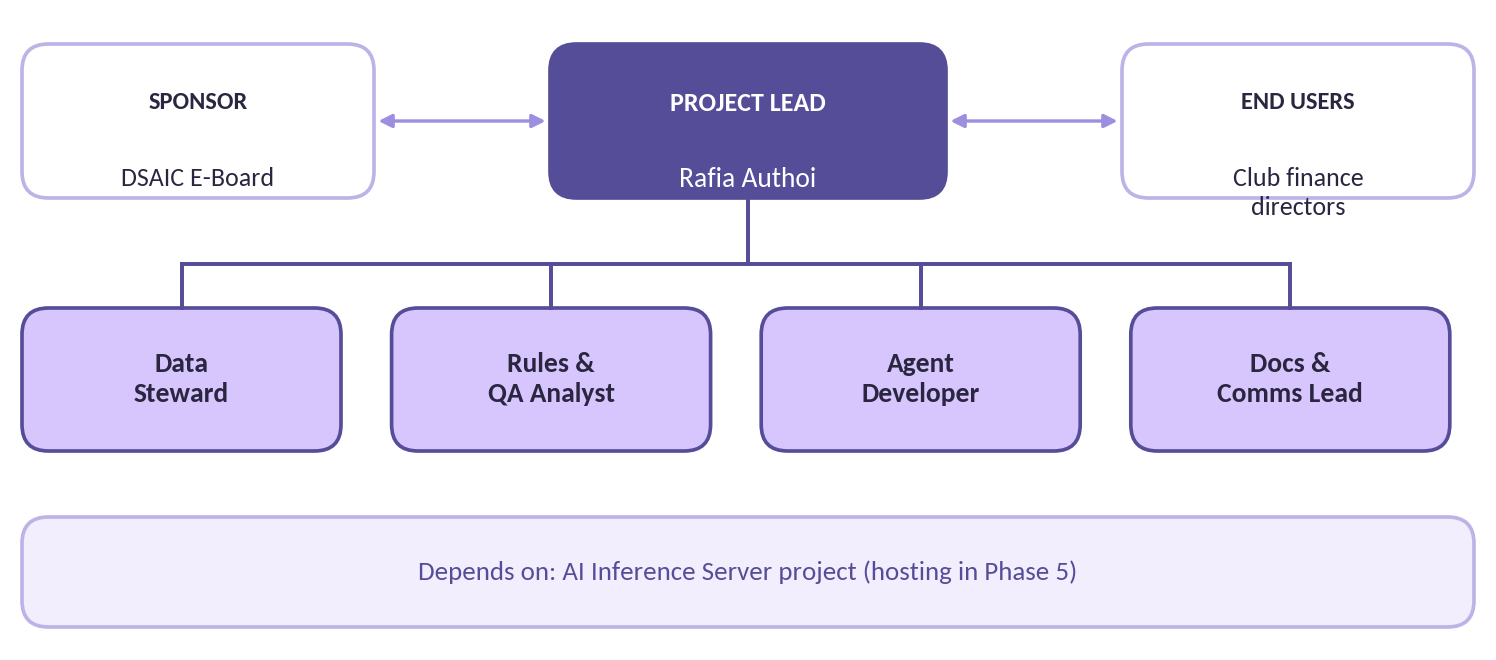
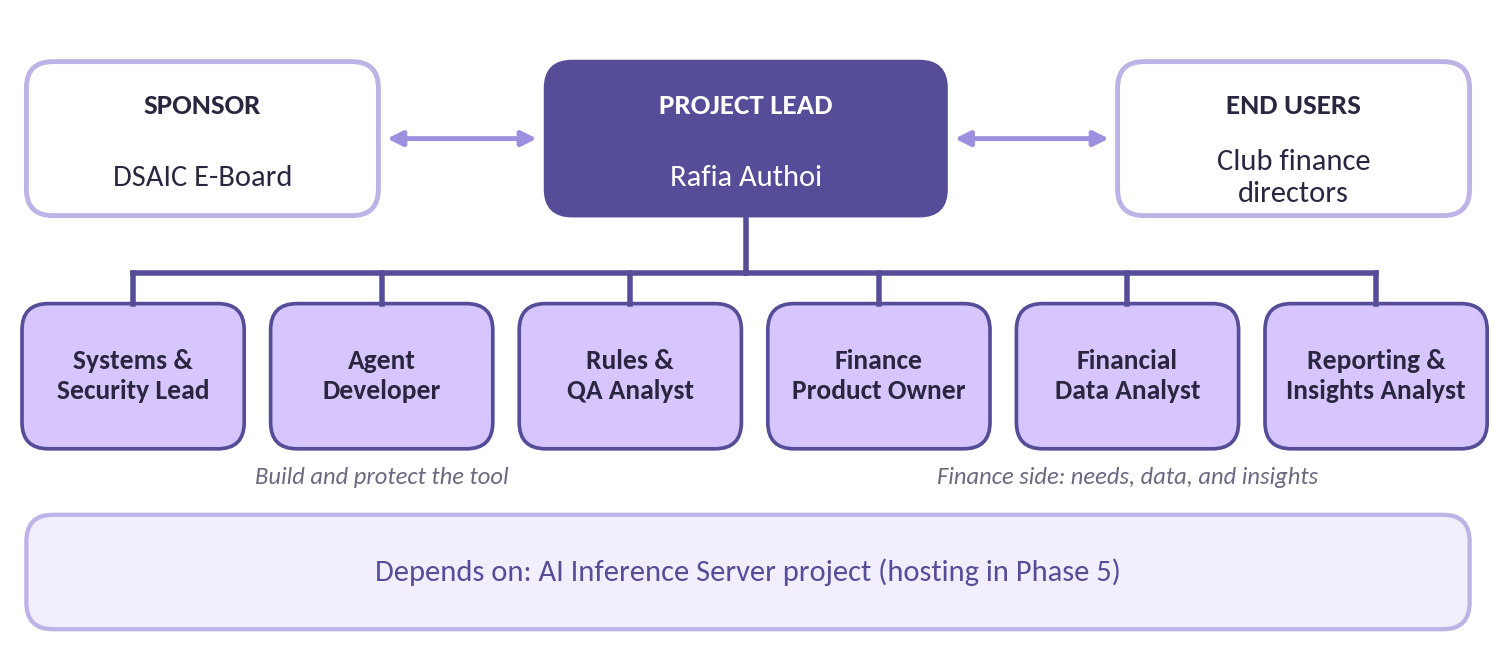
Update Charter and Refresher Guide with confirmed roles and how we work; fix team list (#29)

diff --git a/docs/project/03-project-charter.md b/docs/project/03-project-charter.md
@@ -6,12 +6,12 @@
 
 | | |
 |---|---|
-| **Project**          | DSAIC Finance Agent                                            |
-| **Project lead**     | Rafia Authoi                                                   |
-| **Sponsor**          | Data Science & AI Club (DSAIC) E-Board                         |
-| **Team size**        | 4 to 5 members, including the project lead                     |
-| **Methodology**      | Agile (sprint-based), tracked on a public GitHub project board |
-| **Version / status** | 2.1 \| Draft for team review                                   |
+| **Project**          | DSAIC Finance Agent                                                                     |
+| **Project lead**     | Rafia Authoi                                                                            |
+| **Sponsor**          | Data Science & AI Club (DSAIC) E-Board                                                  |
+| **Team size**        | 7 members, including the project lead                                                   |
+| **Methodology**      | Agile hybrid: phases with milestone gates, 2-week sprints, and a Kanban board on GitHub |
+| **Version / status** | 2.2 \| Roles confirmed October 2, 2026                                                  |
 
 ## 1. Project Overview
 
@@ -75,7 +75,7 @@ A Work Breakdown Structure (WBS) splits the project into smaller, manageable pie
 
 ## 5. Team and Roles
 
-The team is 4 to 5 people. Each person has one primary role, but everyone helps where needed. If the team has 4 members, the Docs & Comms responsibilities are shared between the project lead and the Rules & QA Analyst. Roles are assigned at the first meeting.
+The team has seven members. Each person has one primary role, but everyone helps where needed. Roles were confirmed at the October 2, 2026 team meeting. Three roles build and protect the tool, three represent the finance side (what directors need, the data, and what it shows), and the project lead connects them.
 
 ![Figure 2. Project team structure](images/charter-project-team-structure.png)
 
@@ -87,77 +87,98 @@ The team is 4 to 5 people. Each person has one primary role, but everyone helps 
 
 |   |   |
 |---|---|
-| **Good fit if you...** | Assigned to Rafia Authoi. |
-| **Responsibilities** | Sets priorities, runs meetings, and keeps the project board current<br>Unblocks teammates and makes final decisions on scope and design<br>Reviews and approves pull requests; controls access to real funding documents<br>Coordinates with the DSAIC E-Board, WSA contacts, and the AI Inference Server team |
-| **Deliverables** | Project board and sprint plans<br>Tech stack decision record (Phase 2)<br>Status updates to the E-Board |
+| **Assigned to** | Rafia Authoi |
+| **Responsibilities** | Sets priorities, runs sprint planning, and writes each week's agenda and meeting notes<br>Keeps the project board current, unblocks teammates, and makes final decisions on scope and design<br>Reviews and approves pull requests; keeps the README and guides accurate<br>Coordinates with the DSAIC E-Board, WSA contacts, and the AI Inference Server team |
+| **Deliverables** | Project board and sprint plans<br>Weekly agendas and meeting notes<br>Tech stack decision record (Phase 2)<br>README, guides, and status updates to the E-Board |
 
-#### Data Steward
-
-|   |   |
-|---|---|
-| **Good fit if you...** | You like spreadsheets, organizing things, and noticing details. No coding required. |
-| **Responsibilities** | Collects past approved WSA requests from the shared drive and tracks what's missing<br>Standardizes line items, categories, dates, and amounts using the clean-data rules<br>Anonymizes requests so samples can safely go in the public repository<br>Maps every field on the WSA request form and what goes in it |
-| **Deliverables** | Tracking sheet of all collected requests<br>Anonymized sample requests for each budget type<br>Form field map (docs/wsa-guidelines/form-fields.md) |
-
-#### Rules & QA Analyst
+#### Systems & Security Lead
 
 |   |   |
 |---|---|
-| **Good fit if you...** | You like reading rules closely and asking "how do we know that's right?" No coding required. |
-| **Responsibilities** | Writes up WSA's rules for all four budget types, with sources<br>Builds a test set: sample requests with known rule problems the checker should catch<br>Reviews the agent's drafts and records what it gets right and wrong<br>Gathers feedback from finance directors during the pilot |
-| **Deliverables** | Rules docs for all four budget types<br>Test set of requests with known issues<br>Draft quality reports each sprint<br>Pilot feedback summary |
+| **Assigned to** | Saad |
+| **Responsibilities** | Controls who can see real funding documents in the private shared drive<br>Reviews repository security: branch rules, code owners, and secret scanning<br>Gives the second-person check on every anonymized sample before it is merged<br>Plans a secure, per-organization setup for deployment to the AI server |
+| **Deliverables** | Access review of the shared drive and repository<br>Sign-off on every anonymized sample<br>Security and deployment checklist (Phase 5) |
 
 #### Agent Developer
 
 |   |   |
 |---|---|
-| **Good fit if you...** | You want to write code, or you want to learn. Some Python helps but isn't required to start. |
-| **Responsibilities** | Runs the Hermes Agent experiment and compares it with other options in Phase 2<br>Builds the drafting agent that turns a director's description into a request<br>Builds the rules checker that reads the rules file and flags problems<br>Works with the project lead to containerize and deploy to the AI server |
-| **Deliverables** | Tech stack experiment write-up<br>Working draft generator<br>Rules checker with tests<br>Deployment container and setup notes |
+| **Assigned to** | Justin |
+| **Responsibilities** | Builds the rules checker that reads the rules file and flags problems<br>Builds the drafting agent that turns a director's description into a request<br>Runs the Hermes Agent experiment with the project lead and compares options in Phase 2<br>Works with the project lead and the Systems & Security Lead to containerize and deploy |
+| **Deliverables** | Rules checker with tests<br>Tech stack experiment write-up<br>Working draft generator<br>Deployment container and setup notes |
 
-#### Docs & Comms Lead
+#### Rules & QA Analyst
 
 |   |   |
 |---|---|
-| **Good fit if you...** | You like writing, organizing, and keeping people in sync. No coding required. |
-| **Responsibilities** | Takes notes at Friday meetings and posts action items<br>Keeps the README, contributing guide, and setup instructions accurate<br>Helps keep issues and the project board tidy and up to date<br>Prepares demo materials and recruiting posts for DSAIC's LinkedIn and Instagram |
-| **Deliverables** | Meeting notes and action items<br>Up-to-date README and guides<br>Final demo and showcase materials |
+| **Assigned to** | Matt |
+| **Responsibilities** | Keeps the WSA rules docs current, with sources, when WSA changes a rule<br>Builds a test set: sample requests with known rule problems the checker should catch<br>Reviews the agent's drafts and records what it gets right and wrong<br>Gathers feedback from finance directors during the pilot |
+| **Deliverables** | Test set of requests with known issues<br>Draft quality reports each sprint<br>Pilot feedback summary |
+
+#### Finance Product Owner
+
+|   |   |
+|---|---|
+| **Assigned to** | Syed |
+| **Responsibilities** | Represents club finance chairs: what they need and what matters most<br>Sets priorities with the project lead during sprint planning<br>Supplies past approved requests and funding letters, and records WSA deadlines<br>Reviews drafts and says whether a finance chair could use them as-is |
+| **Deliverables** | Prioritized list of what finance chairs need<br>Fall 2026 WSAAC deliberation calendar<br>Draft reviews each sprint once drafts exist |
+
+#### Financial Data Analyst
+
+|   |   |
+|---|---|
+| **Assigned to** | Drew |
+| **Responsibilities** | Collects past approved WSA requests and tracks what's missing<br>Records each request and line item in the tracking sheet, including what was cut and why<br>Standardizes line items, categories, dates, and amounts<br>Anonymizes samples using the anonymization checklist and maps every field on the WSA form |
+| **Deliverables** | Tracking sheet of past requests<br>Anonymized sample requests for each budget type<br>Form field map (docs/wsa-guidelines/form-fields.md) |
+
+#### Reporting & Insights Analyst
+
+|   |   |
+|---|---|
+| **Assigned to** | Sami |
+| **Responsibilities** | Turns the tracking sheet into charts that show what WSA funds<br>Tracks approval rates, amounts by budget type, and the most common reasons items get cut<br>Works from the anonymized copy of the tracking sheet<br>Prepares charts for sprint reviews and the end-of-year showcase |
+| **Deliverables** | Funding insights dashboard<br>Charts for sprint reviews and the showcase |
 
 ### 5.2 Responsibility matrix (RACI)
 
 A RACI matrix shows who does what. For each task: R is Responsible (does the work), A is Accountable (owns the outcome and signs off), C is Consulted (gives input), and I is Informed (kept updated).
 
-| **Task**                                   | **Lead** | **Data** | **Rules/QA** | **Dev** | **Docs** |
-|--------------------------------------------|----------|----------|--------------|---------|----------|
-| **Set up shared drive for real documents** | R/A      | C        | I            | I       | I        |
-| **Collect and anonymize past requests**    | A        | R        | C            | I       | I        |
-| **Map WSA form fields**                    | A        | R        | C            | C       | I        |
-| **Document WSA rules**                     | A        | C        | R            | C       | C        |
-| **Choose tasks and tech stack**            | R/A      | C        | C            | R       | I        |
-| **Hermes Agent experiment**                | A        | I        | C            | R       | I        |
-| **Build draft generator**                  | A        | C        | C            | R       | I        |
-| **Build rules checker**                    | A        | I        | C            | R       | I        |
-| **Test drafts and run director pilot**     | A        | C        | R            | C       | I        |
-| **Deploy to AI server**                    | A        | I        | C            | R       | I        |
-| **README, guides, and showcase**           | A        | C        | C            | C       | R        |
+| **Task**                                   | **Lead** | **Security** | **Dev** | **Rules/QA** | **Product** | **Data** | **Insights** |
+|--------------------------------------------|----------|--------------|---------|--------------|-------------|----------|--------------|
+| **Set up shared drive for real documents** | R/A      | C            | I       | I            | I           | I        | I            |
+| **Control data access and repo security**  | A        | R            | C       | I            | I           | I        | I            |
+| **Collect and anonymize past requests**    | A        | C            | I       | C            | C           | R        | I            |
+| **Map WSA form fields**                    | A        | I            | C       | C            | C           | R        | I            |
+| **Document WSA rules**                     | A        | I            | C       | R            | C           | C        | I            |
+| **Set priorities and plan sprints**        | R/A      | C            | C       | C            | R           | C        | C            |
+| **Choose tasks and tech stack**            | R/A      | C            | R       | C            | C           | I        | I            |
+| **Hermes Agent experiment**                | A        | I            | R       | C            | I           | I        | I            |
+| **Build draft generator**                  | A        | I            | R       | C            | C           | C        | I            |
+| **Build rules checker**                    | A        | I            | R       | C            | I           | I        | I            |
+| **Test drafts and run director pilot**     | A        | I            | C       | R            | R           | C        | I            |
+| **Funding insights dashboard**             | A        | I            | I       | I            | C           | C        | R            |
+| **Deploy to AI server**                    | A        | C            | R       | C            | I           | I        | I            |
+| **README, guides, and showcase**           | R/A      | I            | C       | C            | C           | I        | C            |
 
 ## 6. Deliverables
 
 **Deadlines:** all due dates are TBD and will be set during sprint planning. Always check the project board for current deadlines.
 
-| **ID**  | **Deliverable**                 | **Owner**       | **Phase** | **Done when...**                                         | **Due** |
-|---------|---------------------------------|-----------------|-----------|----------------------------------------------------------|---------|
-| **D1**  | Team setup complete             | All             | 0         | Everyone can clone the repo and open a pull request      | TBD     |
-| **D2**  | Shared drive for real documents | Project Lead    | 1         | Private folder exists, access limited to the team        | TBD     |
-| **D3**  | Past request library            | Data Steward    | 1         | Approved requests collected and tracked by budget type   | TBD     |
-| **D4**  | Form field map                  | Data Steward    | 1         | Every WSA form field documented                          | TBD     |
-| **D5**  | WSA rules docs                  | Rules & QA      | 1         | Rules for all four budget types written up with sources  | TBD     |
-| **D6**  | Anonymized samples              | Data Steward    | 1         | At least one per budget type, checked by a second person | TBD     |
-| **D7**  | Tech stack decision             | Lead & Dev      | 2         | Options tested, choice and reasons written in the repo   | TBD     |
-| **D8**  | Event request drafts            | Agent Developer | 3         | Agent drafts event requests that pass the rules checker  | TBD     |
-| **D9**  | All budget types + pilot        | Dev & Rules/QA  | 4         | Finance directors approve drafts with minor edits        | TBD     |
-| **D10** | Deployed agent                  | Agent Developer | 5         | Runs on the AI server, data separated by organization    | TBD     |
-| **D11** | Documentation & showcase        | Docs & Comms    | 5         | A new member can set up the project from the docs alone  | TBD     |
+| **ID**  | **Deliverable**                 | **Owner**                     | **Phase** | **Done when...**                                                    | **Due** |
+|---------|---------------------------------|-------------------------------|-----------|---------------------------------------------------------------------|---------|
+| **D1**  | Team setup complete             | All                           | 0         | Everyone can clone the repo and open a pull request                 | TBD     |
+| **D2**  | Shared drive for real documents | Project Lead                  | 1         | Private folder exists, access limited to the team                   | TBD     |
+| **D3**  | Past request library            | Data Analyst                  | 1         | Approved requests collected and tracked by budget type              | TBD     |
+| **D4**  | Form field map                  | Data Analyst                  | 1         | Every WSA form field documented                                     | TBD     |
+| **D5**  | WSA rules docs                  | Rules & QA                    | 1         | Rules for all four budget types written up with sources             | TBD     |
+| **D6**  | Anonymized samples              | Data Analyst & Security       | 1         | At least one per budget type, checked by the Security Lead          | TBD     |
+| **D7**  | Tech stack decision             | Lead & Dev                    | 2         | Options tested, choice and reasons written in the repo              | TBD     |
+| **D8**  | Event request drafts            | Agent Developer               | 3         | Agent drafts event requests that pass the rules checker             | TBD     |
+| **D9**  | All budget types + pilot        | Dev, Rules/QA & Product Owner | 4         | Finance directors approve drafts with minor edits                   | TBD     |
+| **D10** | Deployed agent                  | Dev & Security                | 5         | Runs on the AI server, data separated by organization               | TBD     |
+| **D11** | Documentation & showcase        | Project Lead                  | 5         | A new member can set up the project from the docs alone             | TBD     |
+| **D12** | Security review                 | Systems & Security            | 0         | Drive access and repository settings reviewed and fixed             | TBD     |
+| **D13** | Funding insights dashboard      | Reporting & Insights          | 1-2       | Shows approval rates and common cut reasons from the tracking sheet | TBD     |
 
 ## 7. Phases and Milestones
 
@@ -175,6 +196,28 @@ The project runs in six phases. Each phase ends at a milestone gate: a clear che
 | **3. First Drafts: Event**  | Draft generator and rules checker for event budgets                              | Event drafts pass the rules checker on the test set            | TBD             |
 | **4. Full Coverage**        | Operational, conference, and collaboration budgets; pilot with finance directors | Directors approve drafts with only minor edits                 | TBD             |
 | **5. Deploy & Handoff**     | Move to the AI server, per-org setup, finish docs                                | Runs on the server; docs verified by a new member              | TBD             |
+
+### 7.1 How we work
+
+We combine three common approaches. Each one solves a different problem for a student team with changing schedules.
+
+- **Phases with milestone gates.** The six phases above set the big picture. A phase doesn't start until the one before it meets its gate, so we never pick tools before we understand the problem.
+
+- **Two-week sprints.** Inside each phase, work happens in two-week sprints that start at a Friday meeting. Short sprints keep tasks small enough to finish around exams and busy weeks. The length can change if the team finds it isn't working.
+
+- **A Kanban board.** Day to day, every task is a card on the GitHub project board that moves from Backlog to Ready to In Progress to In Review to Done. Anyone can see where things stand without asking.
+
+#### The sprint cycle
+
+- **Sprint planning (first Friday of a sprint).** The Project Lead and the Finance Product Owner decide what goes into the sprint, based on what finance chairs need most. Each person then picks their cards from the Ready column.
+
+- **Weekly check-in (every Friday).** A quick round: what you finished, what you're working on next, and anything blocking you.
+
+- **Sprint review and reflection (last Friday of a sprint).** We show what got done, then talk about what went well and what to change for the next sprint.
+
+- **Done means done.** A card only moves to Done when it meets the Definition of Done in section 8.3.
+
+Sprint 1 runs October 2 to October 15, 2026. Current sprint dates are always on the project board.
 
 ## 8. Team Expectations
 
@@ -234,8 +277,8 @@ A risk is something that could go wrong. Listing risks early means we can plan f
 
 | **ID** | **Risk**                                   | **Likelihood** | **Impact** | **Response plan**                                                                                | **Owner**       |
 |--------|--------------------------------------------|----------------|------------|--------------------------------------------------------------------------------------------------|-----------------|
-| **R1** | Past requests are incomplete or messy      | High           | High       | Track what's missing instead of guessing; start with the budget type that has the most examples  | Data Steward    |
-| **R2** | Personal data exposed or mixed across orgs | Low            | High       | Real data only in the private drive; second-person check on every sample; separate setup per org | Project Lead    |
+| **R1** | Past requests are incomplete or messy      | High           | High       | Track what's missing instead of guessing; start with the budget type that has the most examples  | Data Analyst    |
+| **R2** | Personal data exposed or mixed across orgs | Low            | High       | Real data only in the private drive; second-person check on every sample; separate setup per org | Security Lead   |
 | **R3** | A draft breaks a WSA rule unnoticed        | Medium         | High       | Rules enforced by code, not just the AI; test set with known problems; director always reviews   | Rules & QA      |
 | **R4** | Team members get busy mid-semester         | High           | Medium     | Small tasks; early heads-up rule; documented work so others can pick it up                       | Project Lead    |
 | **R5** | AI Inference Server isn't ready on time    | Medium         | Medium     | Keep the laptop version working; coordinate with the server team                                 | Project Lead    |
@@ -243,14 +286,16 @@ A risk is something that could go wrong. Listing risks early means we can plan f
 
 ## 10. Communication Plan
 
-| **What**                          | **Who**                  | **How often**              | **Where**                                                    |
-|-----------------------------------|--------------------------|----------------------------|--------------------------------------------------------------|
-| **Team meeting**                  | Whole team               | Weekly, Fridays at 6:30 PM | Student Center or online                                     |
-| **Sprint review & reflection**    | Whole team               | End of each sprint         | Friday meeting                                               |
-| **Quick questions and updates**   | Whole team               | Anytime                    | Microsoft Teams channel (email the project lead to be added) |
-| **Task discussion**               | Task owner and reviewers | As needed                  | On the GitHub issue or pull request                          |
-| **Status update to sponsor**      | Project Lead to E-Board  | TBD                        | E-Board meetings                                             |
-| **Recruiting and showcase posts** | Docs & Comms Lead        | At milestones              | DSAIC LinkedIn and Instagram                                 |
+| **What**                          | **Who**                                             | **How often**                              | **Where**                                                    |
+|-----------------------------------|-----------------------------------------------------|--------------------------------------------|--------------------------------------------------------------|
+| **Team meeting**                  | Whole team                                          | Weekly, Fridays at 6:30 PM                 | Student Center or online                                     |
+| **Sprint planning**               | Project Lead and Product Owner, with the team       | First Friday of each sprint                | Friday meeting                                               |
+| **Sprint review & reflection**    | Whole team                                          | Last Friday of each sprint                 | Friday meeting                                               |
+| **Agenda and meeting notes**      | Project Lead                                        | Every meeting (agenda before, notes after) | Microsoft Teams channel                                      |
+| **Quick questions and updates**   | Whole team                                          | Anytime                                    | Microsoft Teams channel (email the project lead to be added) |
+| **Task discussion**               | Task owner and reviewers                            | As needed                                  | On the GitHub issue or pull request                          |
+| **Status update to sponsor**      | Project Lead to E-Board                             | TBD                                        | E-Board meetings                                             |
+| **Recruiting and showcase posts** | Project Lead, with charts from Reporting & Insights | At milestones                              | DSAIC LinkedIn and Instagram                                 |
 
 ## 11. Assumptions and Constraints
 
@@ -276,14 +321,16 @@ A risk is something that could go wrong. Listing risks early means we can plan f
 
 By signing, team members confirm they've read this charter and agree to its working agreements and privacy rules.
 
-| **Name**     | **Role**                | **Signature** | **Date** |
-|--------------|-------------------------|---------------|----------|
-| Rafia Authoi | Project Lead            |               |          |
-|              | Data Steward            |               |          |
-|              | Rules & QA Analyst      |               |          |
-|              | Agent Developer         |               |          |
-|              | Docs & Comms Lead       |               |          |
-|              | Sponsor (DSAIC E-Board) |               |          |
+| **Name**     | **Role**                     | **Signature** | **Date** |
+|--------------|------------------------------|---------------|----------|
+| Rafia Authoi | Project Lead                 |               |          |
+|              | Systems & Security Lead      |               |          |
+|              | Agent Developer              |               |          |
+|              | Rules & QA Analyst           |               |          |
+|              | Finance Product Owner        |               |          |
+|              | Financial Data Analyst       |               |          |
+|              | Reporting & Insights Analyst |               |          |
+|              | Sponsor (DSAIC E-Board)      |               |          |
 
 ---
 

diff --git a/docs/project/02-refresher-guide.md b/docs/project/02-refresher-guide.md
@@ -9,7 +9,7 @@
 | **Read this if**      | You're joining the team. We assume you've never seen any of this before.            |
 | **How to use it**     | Skim it once before kickoff. Come back to it whenever a word or step is unfamiliar. |
 | **Project lead**      | Rafia Authoi                                                                        |
-| **Version**           | 2.1 \| Draft                                                                        |
+| **Version**           | 2.2 \| Roles confirmed October 2, 2026                                              |
 | **Related documents** | Document 1: Project Brief \| Document 3: Project Charter                            |
 
 ## How This Guide Is Organized
@@ -288,15 +288,17 @@ Every change, whether it's cleaned data, new code, or a documentation update, fo
 
 ### C4. Roles at a glance
 
-Each team member has a primary role. Full responsibilities and deliverables are in Document 3, the Project Charter.
+Each team member has a primary role, confirmed at the October 2, 2026 meeting. Full responsibilities and deliverables are in Document 3, the Project Charter.
 
-| **Role**               | **In one line**                                                       | **Good fit if you...**                               |
-|------------------------|-----------------------------------------------------------------------|------------------------------------------------------|
-| **Project Lead**       | Plans the work, unblocks the team, makes final calls                  | (Rafia Authoi)                                       |
-| **Data Steward**       | Collects and anonymizes past approved requests                        | Like spreadsheets, organizing, and details           |
-| **Rules & QA Analyst** | Documents WSA rules and checks whether the agent's drafts follow them | Like reading rules closely and asking "are we sure?" |
-| **Agent Developer**    | Builds the drafting agent and the rules checker                       | Want to code, or want to learn                       |
-| **Docs & Comms Lead**  | Keeps guides, meeting notes, and the project board up to date         | Like writing, organizing, and keeping people in sync |
+| **Role**                         | **In one line**                                                 | **Assigned to** |
+|----------------------------------|-----------------------------------------------------------------|-----------------|
+| **Project Lead**                 | Plans the work, runs sprint planning, makes final calls         | Rafia           |
+| **Systems & Security Lead**      | Keeps real data private and the repository secure               | Saad            |
+| **Agent Developer**              | Builds the rules checker and the drafting agent                 | Justin          |
+| **Rules & QA Analyst**           | Tests whether the agent catches what WSA would reject           | Matt            |
+| **Finance Product Owner**        | Speaks for finance chairs: what they need and what matters most | Syed            |
+| **Financial Data Analyst**       | Organizes past approved requests in the tracking sheet          | Drew            |
+| **Reporting & Insights Analyst** | Turns the tracking sheet into charts of what WSA funds          | Sami            |
 
 ### C5. Meetings and communication
 

diff --git a/docs/team.md b/docs/team.md
@@ -1,7 +1,5 @@
-@'
 # Team
 
 | Name | GitHub | Role |
 |---|---|---|
 | Rafia Authoi | [@rafiaauthoi](https://github.com/rafiaauthoi) | Project Lead |
-'@ | Set-Content -Path docs\team.md -Encoding utf8
